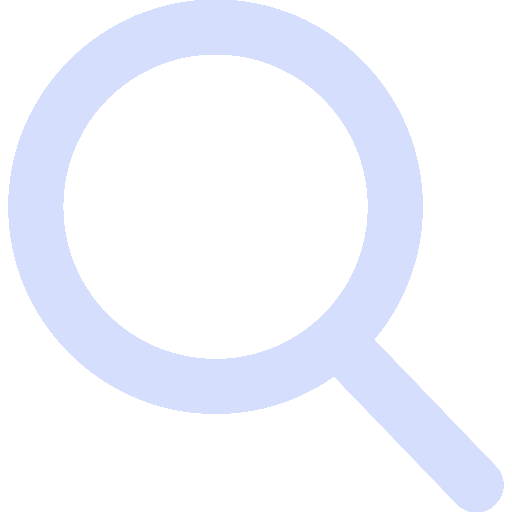
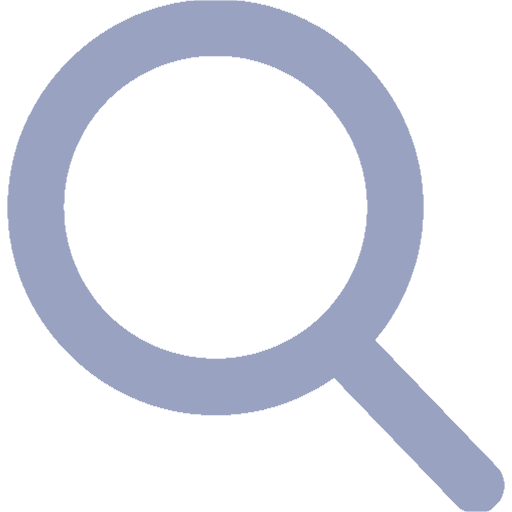
Dashboard designed

Changed region(s): [[0.0, 0.0, 1.0, 1.0]]

diff --git a/src/pages/dashboard/Dashboard.jsx b/src/pages/dashboard/Dashboard.jsx
@@ -1,7 +1,81 @@
+import "./Dashboard.css";
+import searchIconLight from "../../assets/search-icon-light.png";
+import searchIconDark from "../../assets/search-icon-dark.png";
+import searchImage from "../../assets/search.png";
+import { Header } from "../../components/Header/Header";
+import { Button } from "../../components/Button/Button";
+import { useContext, useState } from "react";
+import { Theme } from "../../context/Theme";
+import { lightTheme, darkTheme } from "../../context/Theme.variables";
+
 export const Dashboard = () => {
+  const { theme } = useContext(Theme);
+  const [wordInput, setWordInput] = useState("");
+  const [wordData, setWordData] = useState(null);
+  const isDark = theme === "dark";
+
+  const getData = () => {
+    fetch(`https://api.dictionaryapi.dev/api/v2/entries/en/${wordInput}`)
+      .then((response) => {
+        if (response.ok) {
+          return response.json();
+        } else {
+          return "Error";
+        }
+      })
+      .then((data) => setWordData(data));
+  };
+
+  const handleSubmission = (e) => {
+    e.preventDefault();
+    getData();
+  };
+
   return (
-    <>
-      <h1>Dashboard</h1>
-    </>
+    <body
+      style={{
+        backgroundColor: isDark ? darkTheme.bgMain : lightTheme.bgMain,
+      }}
+    >
+      <header>
+        <Header />
+      </header>
+      <main className="dashboard flex-center-column">
+        {wordData === null ? (
+          <div className="starter flex-center-column">
+            <img src={searchImage} className="placeholder-image" />
+            <p>You are a click away from enhancing your vocabulary</p>
+          </div>
+        ) : wordData === "Error" ? (
+          <div className="error flex-center-column">
+            <img src={searchImage} className="placeholder-image" />
+            <p>Word not found</p>
+          </div>
+        ) : (
+          <section>{JSON.stringify(wordData)}</section>
+        )}
+      </main>
+      <form onSubmit={handleSubmission} className="word-form flex-between-row">
+        <input
+          type="text"
+          className="word-input"
+          placeholder="Search"
+          value={wordInput}
+          onChange={(e) => setWordInput(e.target.value)}
+          style={{
+            backgroundColor: isDark ? lightTheme.bgMain : darkTheme.bgMain,
+            color: isDark ? lightTheme.fontMain : darkTheme.fontMain,
+            // boxShadow: isDark
+            //   ? "-3rem 0rem 0.8rem -0.3rem var(--bg-dark) inset"
+            //   : "-3rem 0rem 0.8rem -0.3rem var(--bg-light) inset",
+          }}
+        />
+        {isDark ? (
+          <Button image={searchIconDark} invert={true} />
+        ) : (
+          <Button image={searchIconLight} invert={true} />
+        )}
+      </form>
+    </body>
   );
 };

diff --git a/src/pages/dashboard/Dashboard.css b/src/pages/dashboard/Dashboard.css
@@ -1,0 +1,134 @@
+.flex-center-column {
+  display: flex;
+  flex-flow: column wrap;
+  justify-content: flex-start;
+  align-items: center;
+}
+
+.flex-between-row {
+  display: flex;
+  flex-flow: row wrap;
+  justify-content: space-between;
+  align-items: center;
+}
+
+body {
+  min-height: 100vh;
+}
+
+.starter {
+  gap: 2rem;
+  text-align: center;
+  margin-top: 2rem;
+}
+
+.placeholder-image {
+  max-width: 20rem;
+}
+
+.starter p {
+  font-size: 1.7rem;
+  max-width: 70%;
+  line-height: 2.3rem;
+  letter-spacing: 0.1ch;
+  color: var(--font-sub);
+}
+
+.error {
+  margin-top: 2rem;
+  text-align: center;
+}
+
+.error p {
+  margin-top: 3rem;
+  font-size: 3.5rem;
+  line-height: 2.3rem;
+  letter-spacing: 0.1ch;
+  color: var(--font-sub);
+  font-weight: 500;
+  max-width: 70%;
+}
+
+.word-form {
+  position: fixed;
+  bottom: 3.5rem;
+  right: 3.5rem;
+}
+
+.word-form button {
+  border: none;
+  outline: none;
+  padding: 1.2rem;
+}
+
+.word-form button img {
+  max-width: 3rem;
+}
+
+.word-form button:active {
+  transform: scale(1);
+}
+
+.word-form input {
+  outline: none;
+  border: none;
+  padding: 1.2rem;
+  font-size: 1.6rem;
+  letter-spacing: 0.1ch;
+  font-family: "Imprima";
+  border-top-left-radius: 1.3rem;
+  border-bottom-left-radius: 1.3rem;
+  margin-right: -3rem;
+  width: 0ch;
+}
+
+.word-form:hover input {
+  width: 22ch;
+}
+
+.word-form input::placeholder {
+  color: var(--font-sub);
+}
+
+@media (max-width: 550px) {
+  .starter {
+    margin-top: 4rem;
+  }
+
+  .starter p {
+    font-size: 1.5rem;
+    line-height: 2rem;
+  }
+
+  .placeholder-image {
+    max-width: 13rem;
+  }
+
+  .error {
+    margin-top: 4.5rem;
+  }
+
+  .error p {
+    font-size: 2.5rem;
+    margin-top: 1.3rem;
+  }
+
+  .word-form input {
+    width: 17ch;
+  }
+
+  .word-form:hover input {
+    width: 17ch;
+  }
+}
+
+@media (max-width: 380px) {
+  .word-form {
+    bottom: 2rem;
+    right: 2rem;
+  }
+
+  .word-form button {
+    padding: 1rem;
+  }
+}

diff --git a/src/components/Header/Header.jsx b/src/components/Header/Header.jsx
@@ -1,0 +1,38 @@
+import "./Header.css";
+import { Theme } from "../../context/Theme";
+import { Button } from "../Button/Button";
+import { useContext } from "react";
+import { lightTheme, darkTheme } from "../../context/Theme.variables";
+import github from "../../assets/github.png";
+import lightMode from "../../assets/sun.png";
+import darkMode from "../../assets/moon.png";
+
+export const Header = () => {
+  const { theme, toggleTheme } = useContext(Theme);
+  const isDark = theme === "dark";
+  return (
+    <div className="dashboard-header flex-between-row">
+      <p
+        className="dashboard-logo"
+        style={{ color: isDark ? darkTheme.fontMain : lightTheme.fontMain }}
+      >
+        Lexiko
+      </p>
+      <span className="dashboard-buttons flex-end-row">
+        <Button
+          onClick={toggleTheme}
+          image={isDark ? lightMode : darkMode}
+          style={{ backgroundColor: lightTheme.bgMain }}
+        />
+        <Button
+          image={github}
+          onClick={() =>
+            (window.location.href =
+              "https://github.com/Akshat-Sabharwal/dictionary")
+          }
+          style={{ backgroundColor: lightTheme.bgMain }}
+        />
+      </span>
+    </div>
+  );
+};

diff --git a/src/components/Header/Header.css b/src/components/Header/Header.css
@@ -1,0 +1,48 @@
+.flex-between-row {
+  display: flex;
+  flex-flow: row nowrap;
+  justify-content: space-between;
+  align-items: center;
+}
+
+.flex-end-row {
+  display: flex;
+  flex-flow: row nowrap;
+  justify-content: flex-end;
+  align-items: center;
+}
+
+.dashboard-header {
+  padding: 1.5rem 2.2rem 1.5rem 2.7rem;
+}
+
+.dashboard-logo {
+  font-size: 4.4rem;
+}
+
+.dashboard-buttons {
+  gap: 1.5rem;
+}
+
+@media (max-width: 550px) {
+  .dashboard-logo {
+    font-size: 3.3rem;
+  }
+
+  .dashboard-buttons button {
+    padding: 0.6rem;
+  }
+
+  .dashboard-buttons button img {
+    max-width: 2.6rem;
+  }
+}
+
+@media (max-width: 380px) {
+  .dashboard-header {
+    padding: 1rem 1.2rem;
+  }
+  .dashboard-buttons button:last-child {
+    display: none;
+  }
+}

diff --git a/src/pages/home/Home.css b/src/pages/home/Home.css
@@ -119,17 +119,16 @@ footer {
 
 @media (min-width: 600px) {
   .header > button {
-    transform: translateX(-10rem);
+    transform: translateX(-11rem);
     transition: 0.6s;
   }
   .header > button::before {
     content: "Get Started";
-    font-size: 1.5rem;
-    margin-right: 1.5rem;
-    background-color: var(--bg-dark);
-    color: var(--font-light);
-    padding: 0.7rem 0.9rem;
+    font-size: 1.7rem;
+    margin-right: 0.8rem;
+    padding: 0.5rem 0.7rem;
     border-radius: 1rem;
+    color: var(--bg-dark);
     opacity: 0;
     transform: translateX(-1rem);
     transition: 0.6s;
@@ -137,7 +136,7 @@ footer {
 
   .header > button:hover::before {
     opacity: 1;
-    transform: translateX(1rem);
+    transform: translateX(0.5rem);
   }
 }
 

diff --git a/src/pages/home/Home.jsx b/src/pages/home/Home.jsx
@@ -25,11 +25,13 @@ export const Home = () => {
       style={{
         backgroundColor: isDark ? darkTheme.bgMain : lightTheme.bgMain,
       }}
+      className="homepage"
     >
       <header className="header flex-between-row">
         <Button
           image={rightArrow}
           style={{ backgroundColor: lightTheme.bgMain }}
+          onClick={() => navigate("/dashboard")}
         />
         <span className="flex-evenly-row">
           <Button
